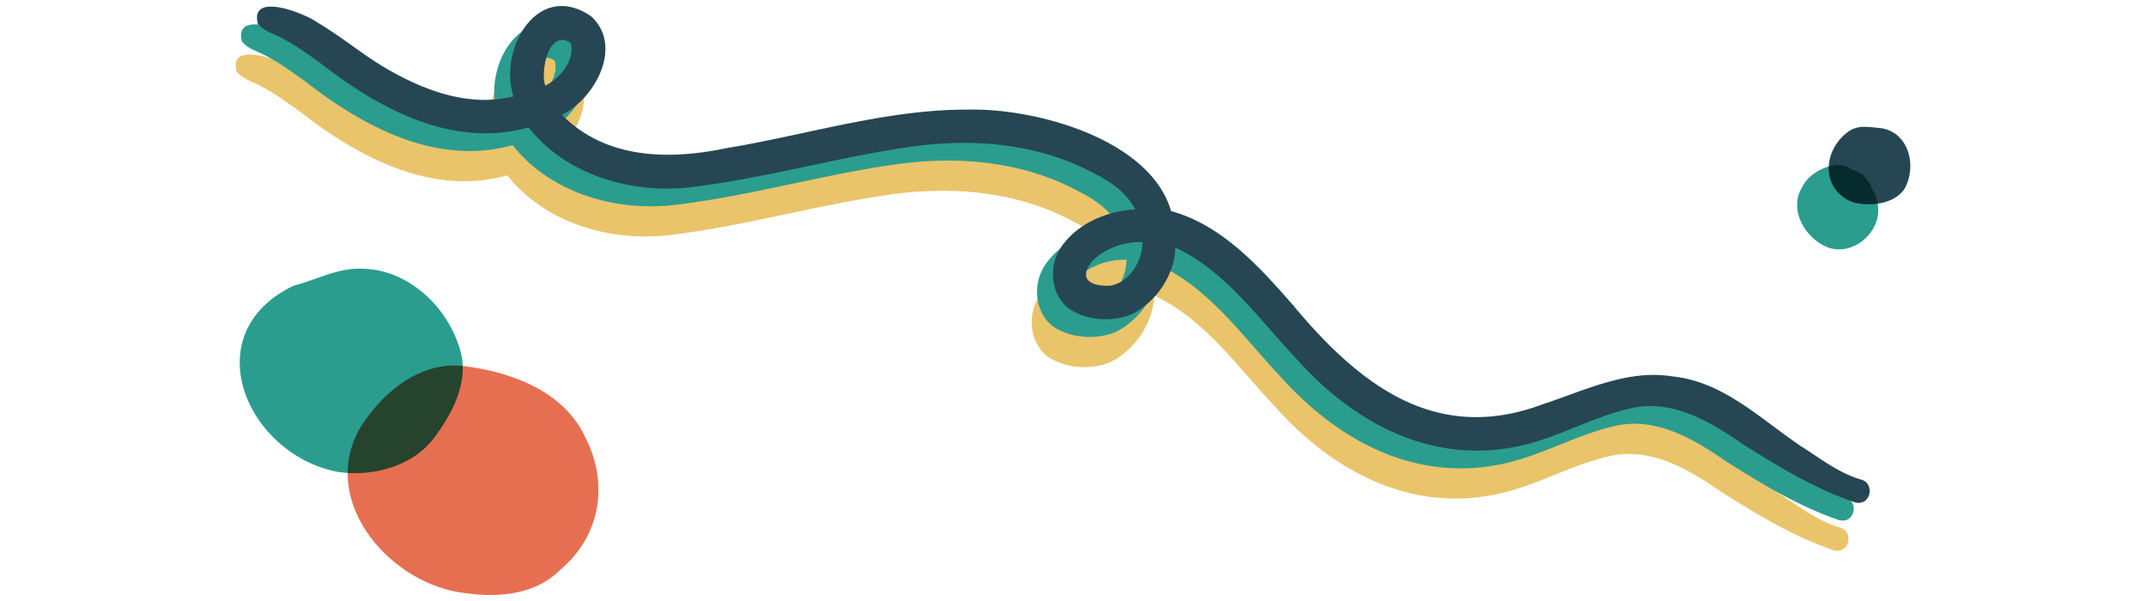
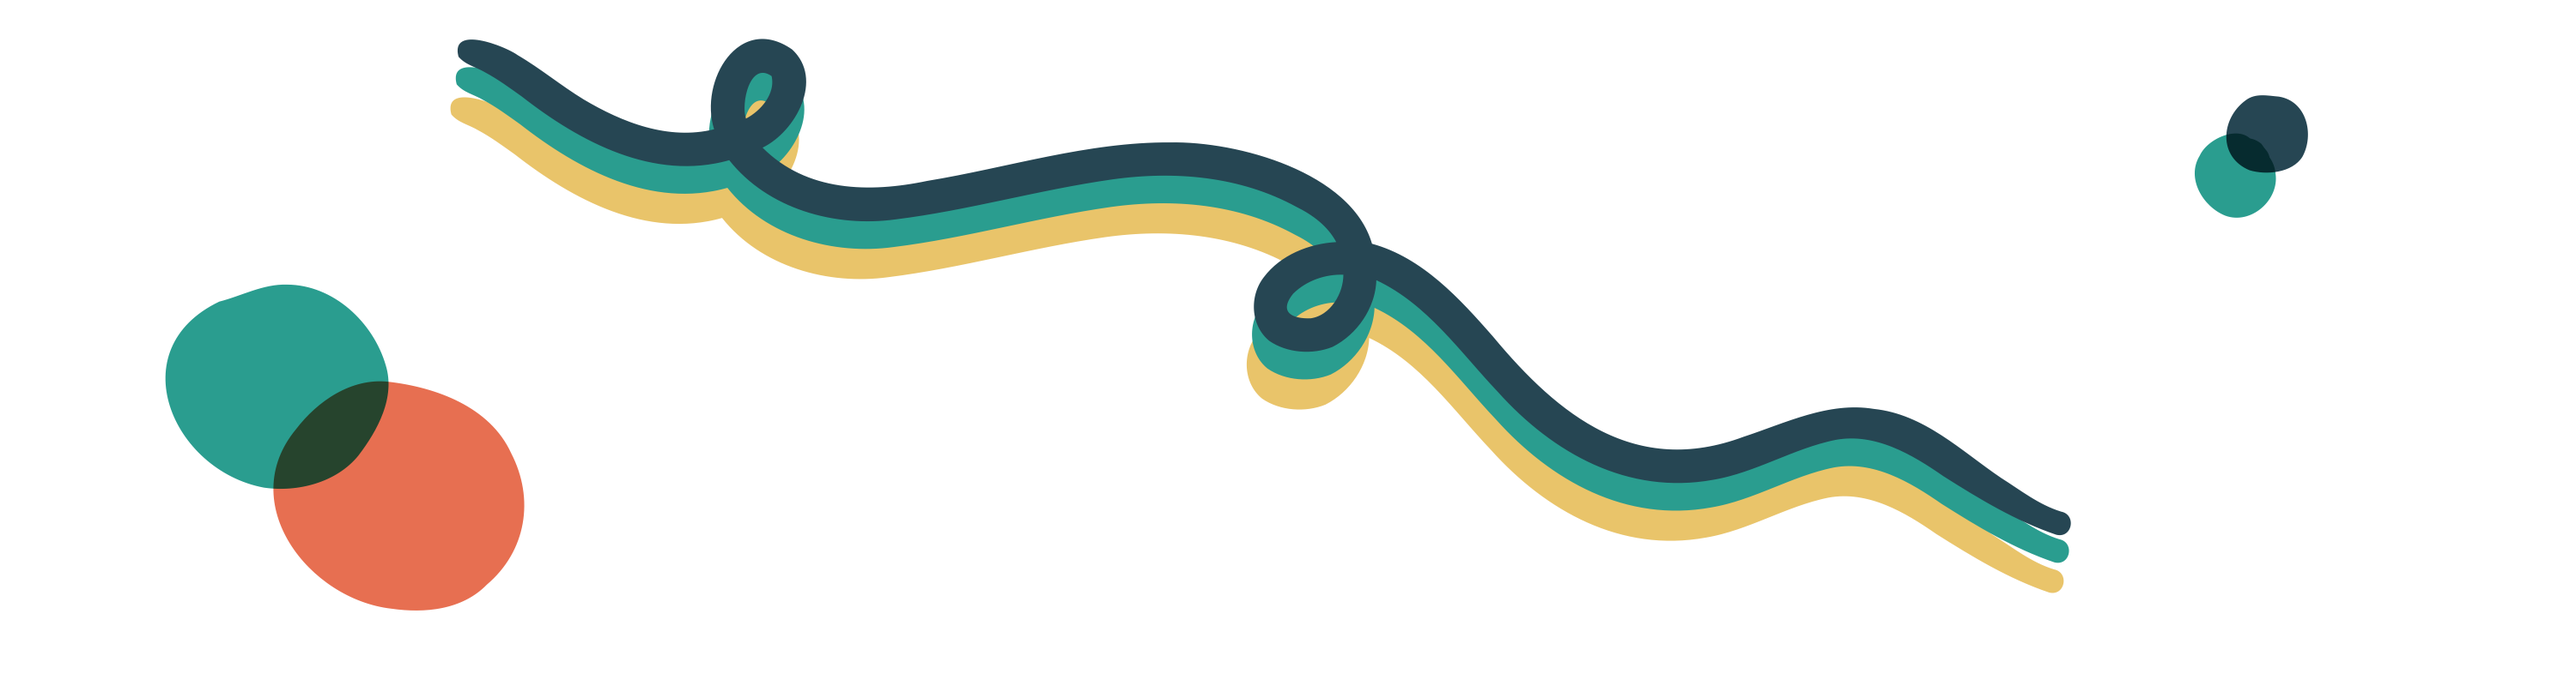
Update main page png

Changed region(s): [[0.0936, 0.0, 0.8736, 0.93], [0.0624, 0.42, 0.2808, 0.99], [0.8112, 0.12, 0.9048, 0.42]]

diff --git a/static/js/homepage/home.jsx b/static/js/homepage/home.jsx
@@ -7,7 +7,7 @@ const RenderHomeContent = (props) => {
             <ReactBootstrap.Container id="page-content">
                 <ReactBootstrap.Row className="justify-content-center">
                     <ReactBootstrap.Col xs="auto" className="py-3">
-                        <ReactBootstrap.Image src="/static/img/wrap1.png" className="img-fluid" width="700px"/>
+                        <ReactBootstrap.Image src="/static/img/wrap1.png" className="img-fluid" width="1000px"/>
                     </ReactBootstrap.Col>
                 </ReactBootstrap.Row>
                 <ReactBootstrap.Row className="justify-content-center">
